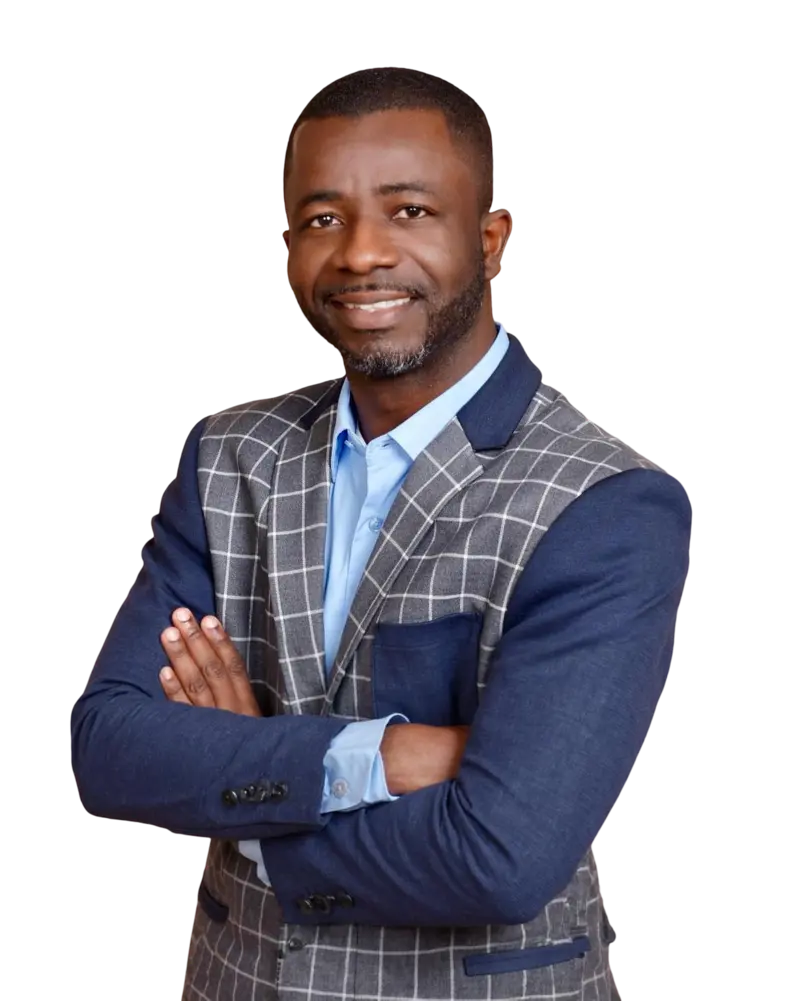
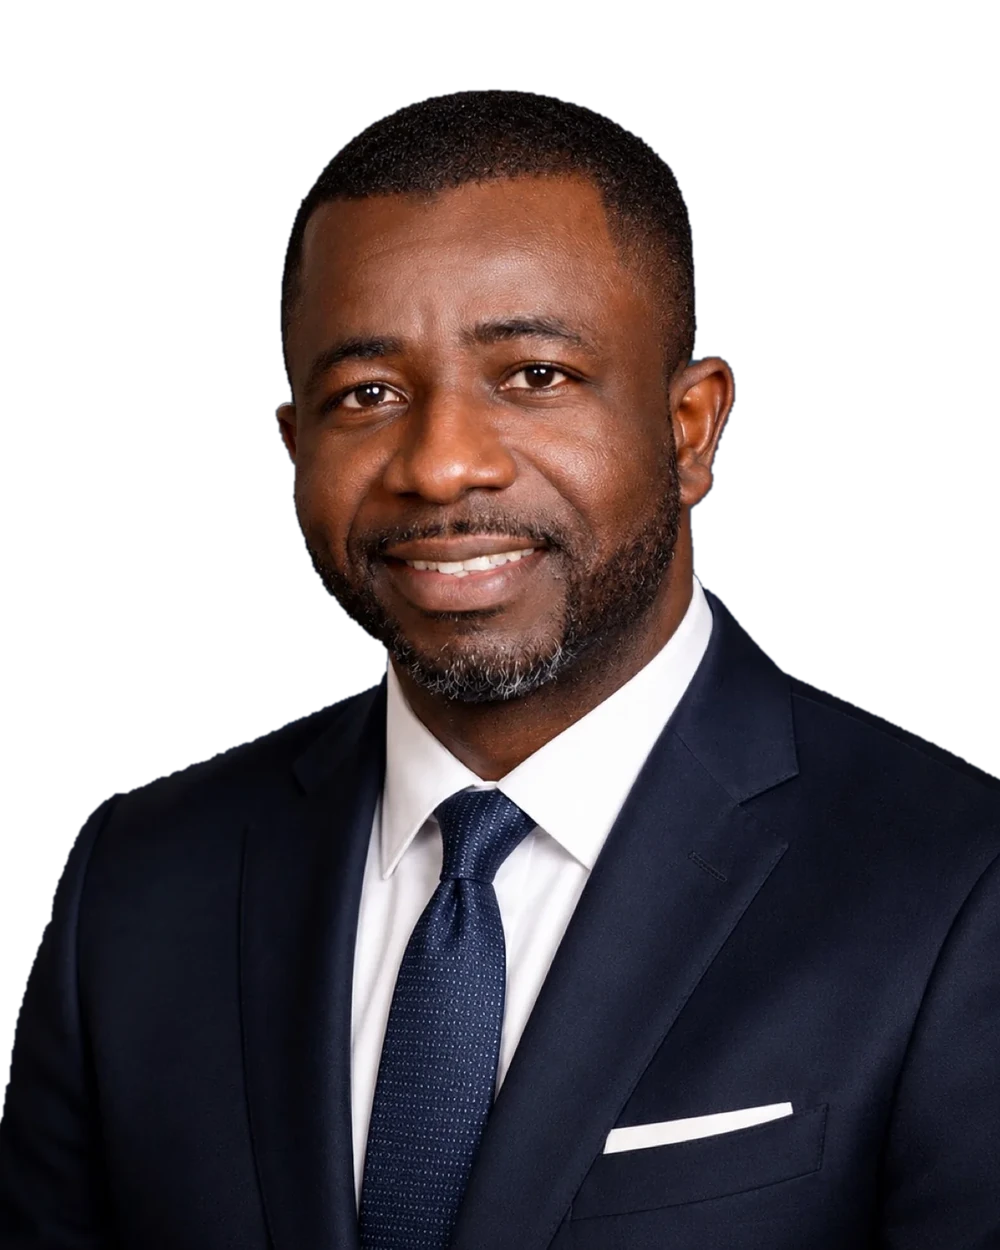
Switch off the website guide, sharpen Dr. Adeyemo's portraits and replace the repeated About portraits
The /api/navigator path now answers 410 at the edge and in the worker, and its cache
behavior is removed, so nothing reaches the agent service from the website.
Dr. Adeyemo's portrait and headshot come from the 1500 pixel studio original with the
same light blue background as the team. The About hero shows key figures instead of
the portraits repeated in the leadership section.

diff --git a/worker/index.js b/worker/index.js
@@ -283,65 +283,6 @@ async function handleContact(request, env) {
   return json({ message: typeof body.message === "string" ? body.message : "Thank you. Your inquiry has been received." });
 }
 
-async function handleNavigator(request, env) {
-  const contentLength = Number(request.headers.get("content-length") || 0);
-  if (contentLength > MAX_REQUEST_BYTES) return json({ error: "Request is too large." }, 413);
-  let input;
-  try {
-    input = await request.json();
-  } catch {
-    return json({ error: "Submit the question as JSON." }, 400);
-  }
-  const question = typeof input?.question === "string" ? input.question.trim() : "";
-  if (!input || typeof input !== "object" || Array.isArray(input) || question.length < 3 || question.length > 600) {
-    return json({ error: "Enter a question between 3 and 600 characters." }, 400);
-  }
-
-  const endpoint = typeof env.FOUNDATION_AGENT_PUBLIC_ORIGIN === "string"
-    ? env.FOUNDATION_AGENT_PUBLIC_ORIGIN.trim()
-    : "";
-  if (!/^https:\/\/[^/]+\/public\/v1\/navigate$/u.test(endpoint)) {
-    return json({ error: "The website guide is temporarily unavailable." }, 503);
-  }
-
-  const agentFetch = typeof env.AGENT_FETCH === "function" ? env.AGENT_FETCH : fetch;
-  let upstream;
-  try {
-    upstream = await agentFetch(endpoint, {
-      method: "POST",
-      headers: {
-        "Content-Type": "application/json",
-        "Accept": "application/json",
-        "Origin": `https://${CANONICAL_HOSTNAME}`,
-        "X-SozoRock-Source": "parent-foundation",
-      },
-      body: JSON.stringify({ question }),
-    });
-  } catch {
-    return json({ error: "The website guide is temporarily unavailable." }, 502);
-  }
-
-  const body = await upstream.json().catch(() => ({}));
-  if (!upstream.ok) {
-    const status = upstream.status === 429 ? 429 : upstream.status >= 400 && upstream.status < 500 ? upstream.status : 502;
-    return json({
-      error: typeof body.message === "string"
-        ? body.message
-        : status === 429
-          ? "The website guide is busy. Please wait a minute and try again."
-          : "The website guide is temporarily unavailable.",
-    }, status);
-  }
-  return json({
-    answer: typeof body.answer === "string" ? body.answer.slice(0, 1200) : "",
-    links: Array.isArray(body.links)
-      ? body.links
-        .filter((link) => link && typeof link.label === "string" && typeof link.href === "string" && /^\/[a-z0-9/-]*$/u.test(link.href))
-        .slice(0, 3)
-      : [],
-    notice: typeof body.notice === "string" ? body.notice.slice(0, 500) : null,
-  });
-}
 
 function redirect(url, pathname, status = 308) {
   const destination = new URL(url);
@@ -435,9 +376,8 @@ export default {
       return handleContact(request, env);
     }
 
-    if (url.pathname === "/api/navigator") {
-      if (request.method !== "POST") return json({ error: "Method not allowed." }, 405);
-      return handleNavigator(request, env);
+    if (url.pathname === "/api/navigator" || url.pathname.startsWith("/api/navigator/")) {
+      return json({ error: "This service is no longer available." }, 410);
     }
 
     const response = await env.ASSETS.fetch(request);

diff --git a/src/site/about.jsx b/src/site/about.jsx
@@ -105,9 +105,9 @@ export function AboutPage() {
       title="We close three gaps: access, capacity and trust."
       lede="The SozoRock Foundation, Inc. is a New York 501(c)(3) public charity. We connect public interest research with practical programs in health access, workforce capacity and trusted AI."
       actions={<><Btn href="/platforms">Explore our work</Btn><More href="/leadership">Meet our leadership</More></>}
-      panelTone="white"
-      panelLabel="Portraits of the Foundation's leadership team"
-      panel={<div className="ns-panel-people">{leaders.map((leader) => <img key={leader.name} src={leader.image} alt="" width="400" height="400" decoding="async" />)}</div>}
+      panelTone="royal"
+      panelLabel="Three gaps we work to close. Twelve learners across two countries. Three free research series."
+      panel={<div className="ns-panel-figures"><div><b>3</b><span>gaps we work to close: access, capacity and trust</span></div><div><b>12</b><span>learners in applied programs across two countries</span></div><div><b>3</b><span>research series, free to read</span></div></div>}
     />
     <Sec labelledBy="story-title">
       <Head id="story-title" eyebrow="Our story" title="One loop: listen, study, build, prove." />
